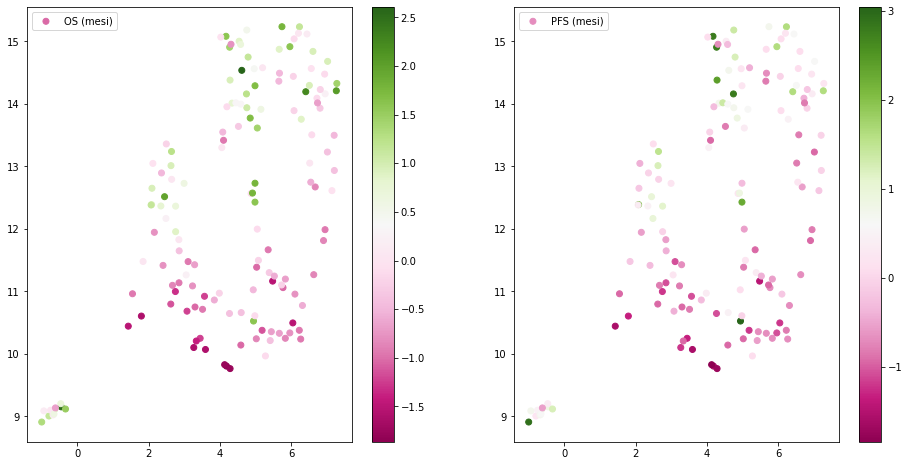
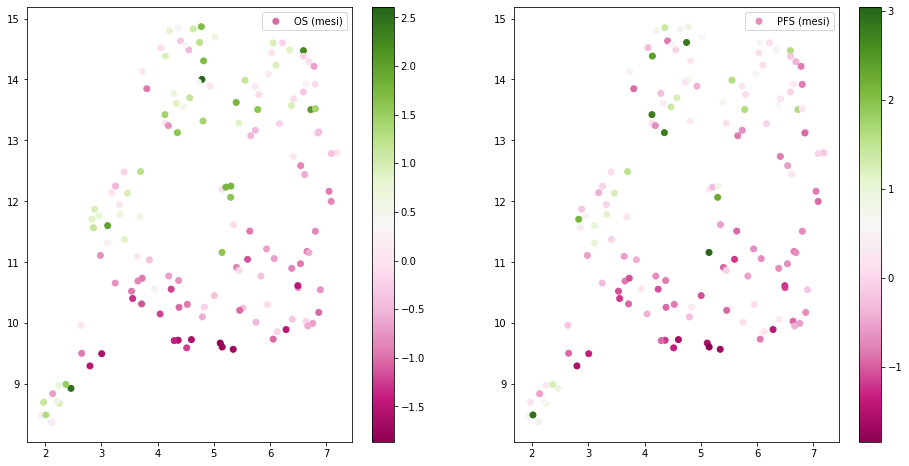
Updated README.md

diff --git a/README.md b/README.md
@@ -678,7 +678,7 @@ We use the first 10 columns as input and the last 2 as color. Thus green means l
 ```python
 # UMAP on data
 import umap
-reducer = umap.UMAP()
+reducer = umap.UMAP(random_state=42)
 embedding = reducer.fit_transform(data.iloc[:, :-2])
 ```
 
@@ -709,6 +709,14 @@ But we are not done yet. We can also invert the process and identify the most im
 
 
 ```python
+# #save dataframe 
+# data.to_csv('data_norm.csv', index=False)
+```
+
+
+```python
+#load dataframe
+data = pd.read_csv('data_norm.csv')
 labels = data.iloc[:, -2]
 mapper = umap.UMAP(random_state=42).fit(data.iloc[:, :-2])
 
@@ -719,20 +727,20 @@ plt.scatter(mapper.embedding_[:, 0], mapper.embedding_[:, 1], c=labels, cmap='Pi
 
 
 
-    <matplotlib.collections.PathCollection at 0x2d329ed2a88>
+    <matplotlib.collections.PathCollection at 0x1b41868fd48>
 
 
 
 
     
-![png](notebook_files/notebook_18_1.png)
+![png](notebook_files/notebook_19_1.png)
     
 
 
 
 ```python
 corners = np.array([
-    [2.2, 8.9],  
+    [2.1, 8.7],  
     [6.5, 10.5], 
     [4.2, 14.5],  
     [6.8, 14.2],  
@@ -769,7 +777,7 @@ scatter_ax.scatter(mapper.embedding_[:, 0], mapper.embedding_[:, 1], c=labels, c
 scatter_ax.set(xticks=[], yticks=[])
 
 # Plot the locations of the text points
-scatter_ax.scatter(test_pts[:, 0], test_pts[:, 1], marker='x', c='k', s=20)
+scatter_ax.scatter(test_pts[:, 0], test_pts[:, 1], marker='x', c='k', s=25)
 
 # Plot each of the generated digit images
 for i in range(5):
@@ -780,9 +788,11 @@ for i in range(5):
 
 
     
-![png](notebook_files/notebook_21_0.png)
+![png](notebook_files/notebook_22_0.png)
     
 
+
+To play around with this, you can use the app.py file in this repository. It is a simple streamlit app that allows to click on this 2D space and get the original features of the patient.
 
 Let's now create a neural network model to try and fit the data.
 
@@ -909,13 +919,13 @@ model.train_model(train_loader, test_loader, epochs=600, lr=0.001, PLOT_INTERVAL
 # torch.save(model.state_dict(), 'model.pth')
 ```
 
-    Epoch: 599, Train Loss: 0.2578
-    Epoch: 599, Test Loss: 0.9321
+    Epoch: 599, Train Loss: 0.2640
+    Epoch: 599, Test Loss: 1.0197
     
 
 
     
-![png](notebook_files/notebook_31_1.png)
+![png](notebook_files/notebook_33_1.png)
     
 
 
